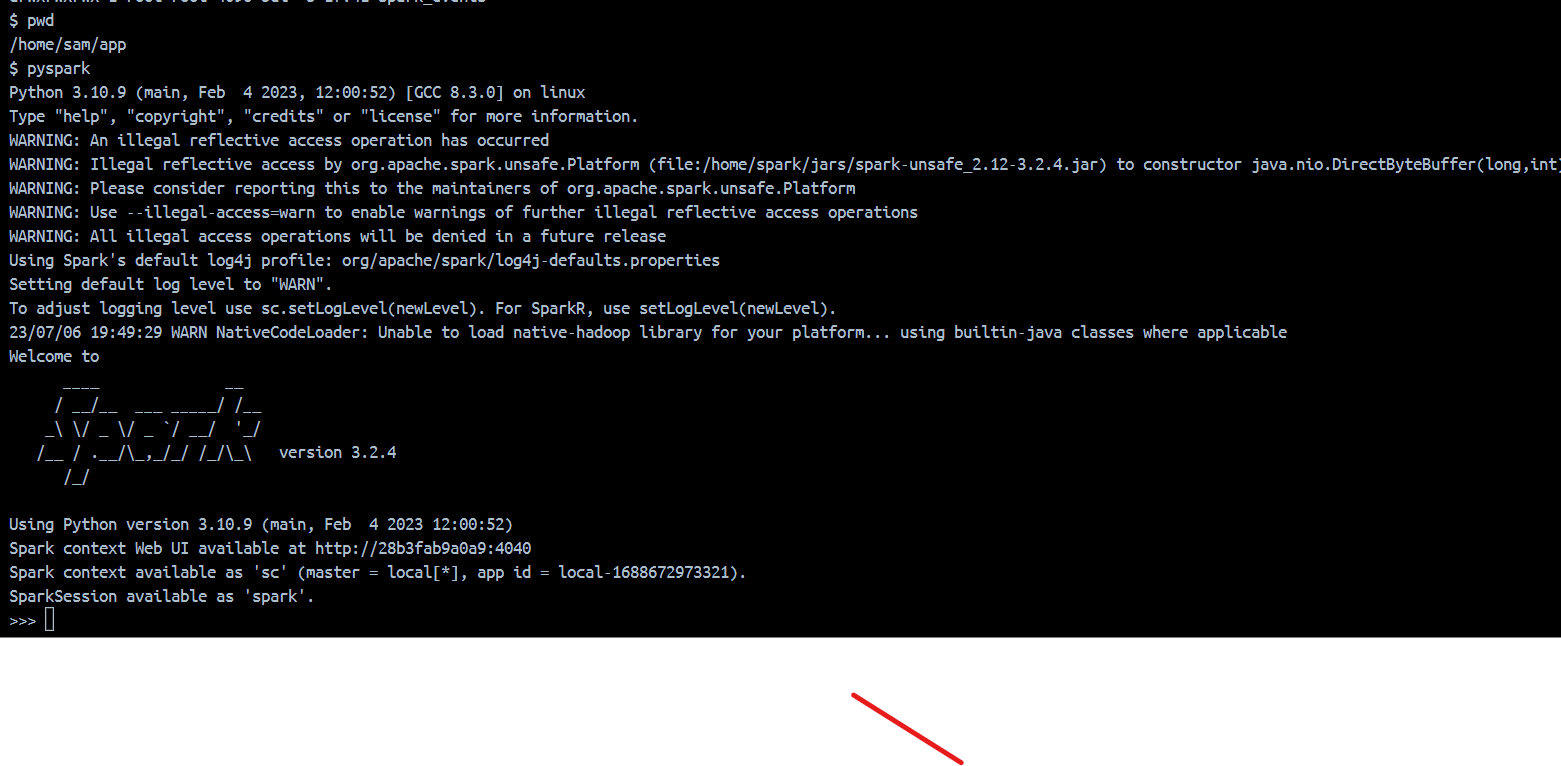
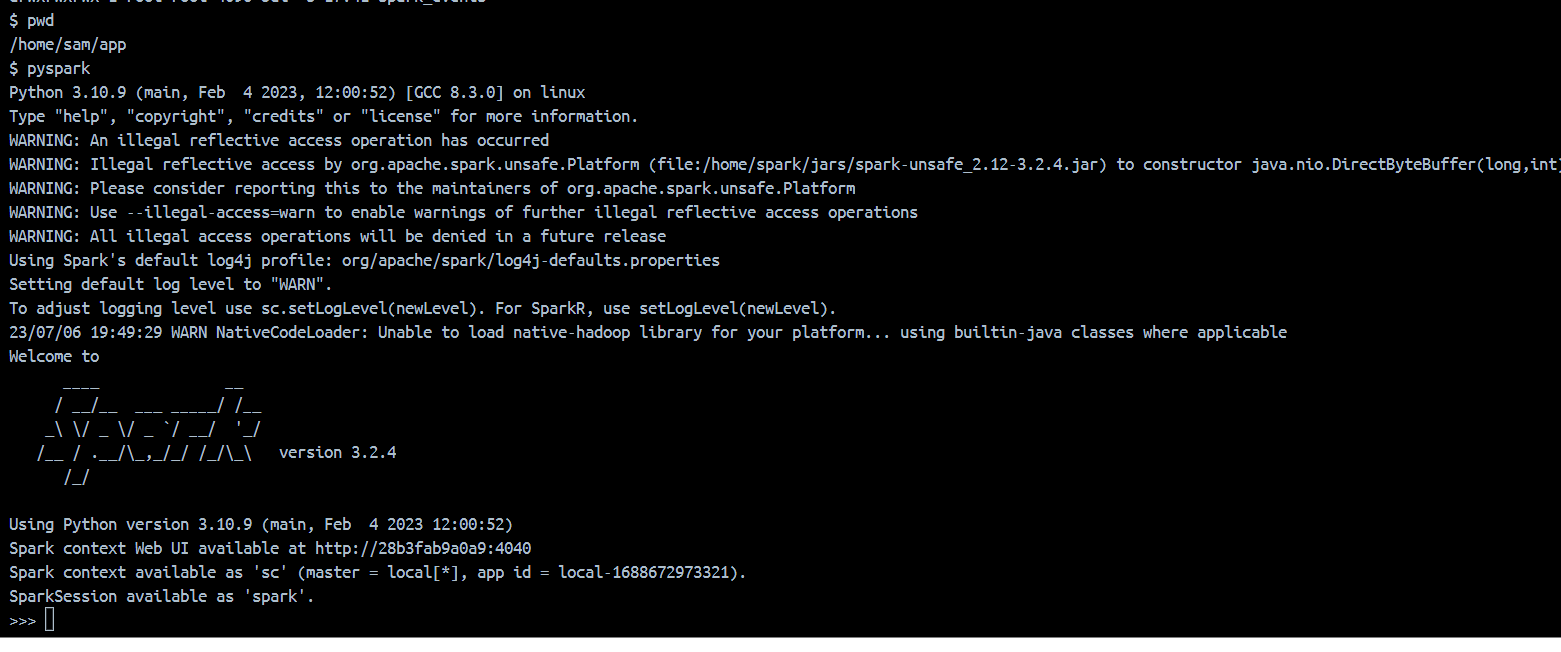
adding info in readme.md and cropping image to remove unwanted part

Changed region(s): [[0.0, 0.0, 1.0, 1.0], [0.5842, 0.4908, 0.8302, 0.5215], [0.5842, 0.4294, 0.8302, 0.4601]]

diff --git a/spark-single-node/readme.md b/spark-single-node/readme.md
@@ -63,14 +63,24 @@ Examples:
 
 
 
-For Windows:
-
+### Start Container using `docker build` command (without using docker-compose):
+ Build the image using docker build command as below
+```bash
+docker build -t my-docker-image .
 ```
-set hostfolder=%cd%
-set dockerfolder=/home/sam/app
 
-echo %hostfolder%
-echo %dockerfolder%
 
+### Then run the image using `docker run` command:
+```bash
+hostfolder="$(pwd)"
+dockerfolder="/home/sam/app"
+docker run --rm -it \
+  --net="host" \
+  -v ${hostfolder}:${dockerfolder} \
+--entrypoint bash spark-in-docker:latest
 ```
+
+Note For Windows:
+Note that in case of windows, path starts with C:/ which is different than universal path pattern. 
+So if you are running from windows then make sure to check the path with volume mapping. 
 
